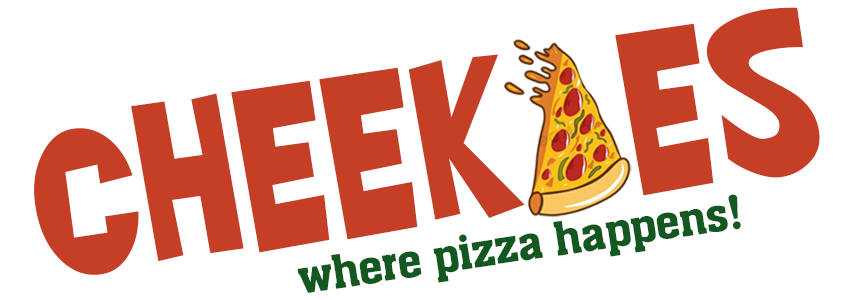
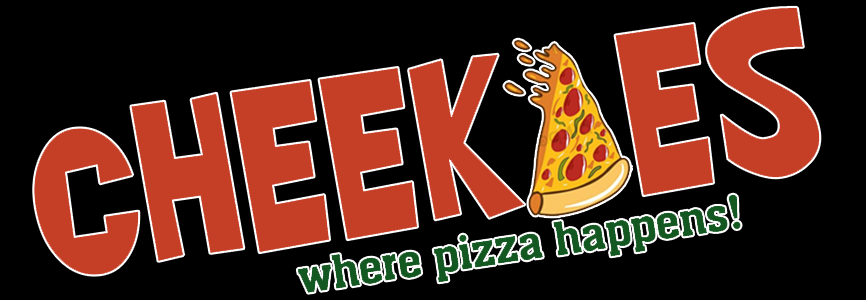
Add rodriguez branch

diff --git a/src/App.css b/src/App.css
@@ -36,3 +36,43 @@
     transform: rotate(360deg);
   }
 }
+*,
+::after,
+::before {
+  margin: 0;
+  padding: 0;
+  box-sizing: border-box;
+}
+body {
+  font-family: system-ui, -apple-system, BlinkMacSystemFont, 'Segoe UI', Roboto, Oxygen, Ubuntu, Cantarell, 'Open Sans', 'Helvetica Neue', sans-serif;
+  background: #282c34;
+  line-height: 1.5;
+  font-size: 0.875rem;
+}
+ul {
+  list-style-type: none;
+  display: flex;
+  align-items: center;
+  justify-content: space-between;
+  padding: 20px 0;
+
+}
+a {
+  text-decoration: none;
+  color: white;
+}
+.navbar{
+  max-width: 1068px;
+  margin: auto;
+  width: 100%;
+}
+.app-header-logo {
+  float: left;
+  margin: 10px;
+  width: 80px;
+  height: 80px;
+}
+.app-header-logo>img{
+  width: 100%;
+  height: auto;
+}

diff --git a/src/components/Header.jsx b/src/components/Header.jsx
@@ -5,7 +5,7 @@ const menus = [
     {label:"Menu", path: '/menu'},
     {label:"About", path: '/about'},
     {label:"Contact Us", path: '/contact-us'},
-    {label:"Book A Party", path: '/bookaparty'},
+    {label:"Book A Party", path: '/bookaparty'}
 ];
 const searchtab = [
   {label:"Login", path: '/Login'},
@@ -14,7 +14,7 @@ const searchtab = [
 
 function Header () {
   return (
-    <div className="header">
+    <div className="navbar">
       <div className="app-header-logo"><img src="cheekies.png"/></div>
       <nav>
       <ul className="main-menu">
